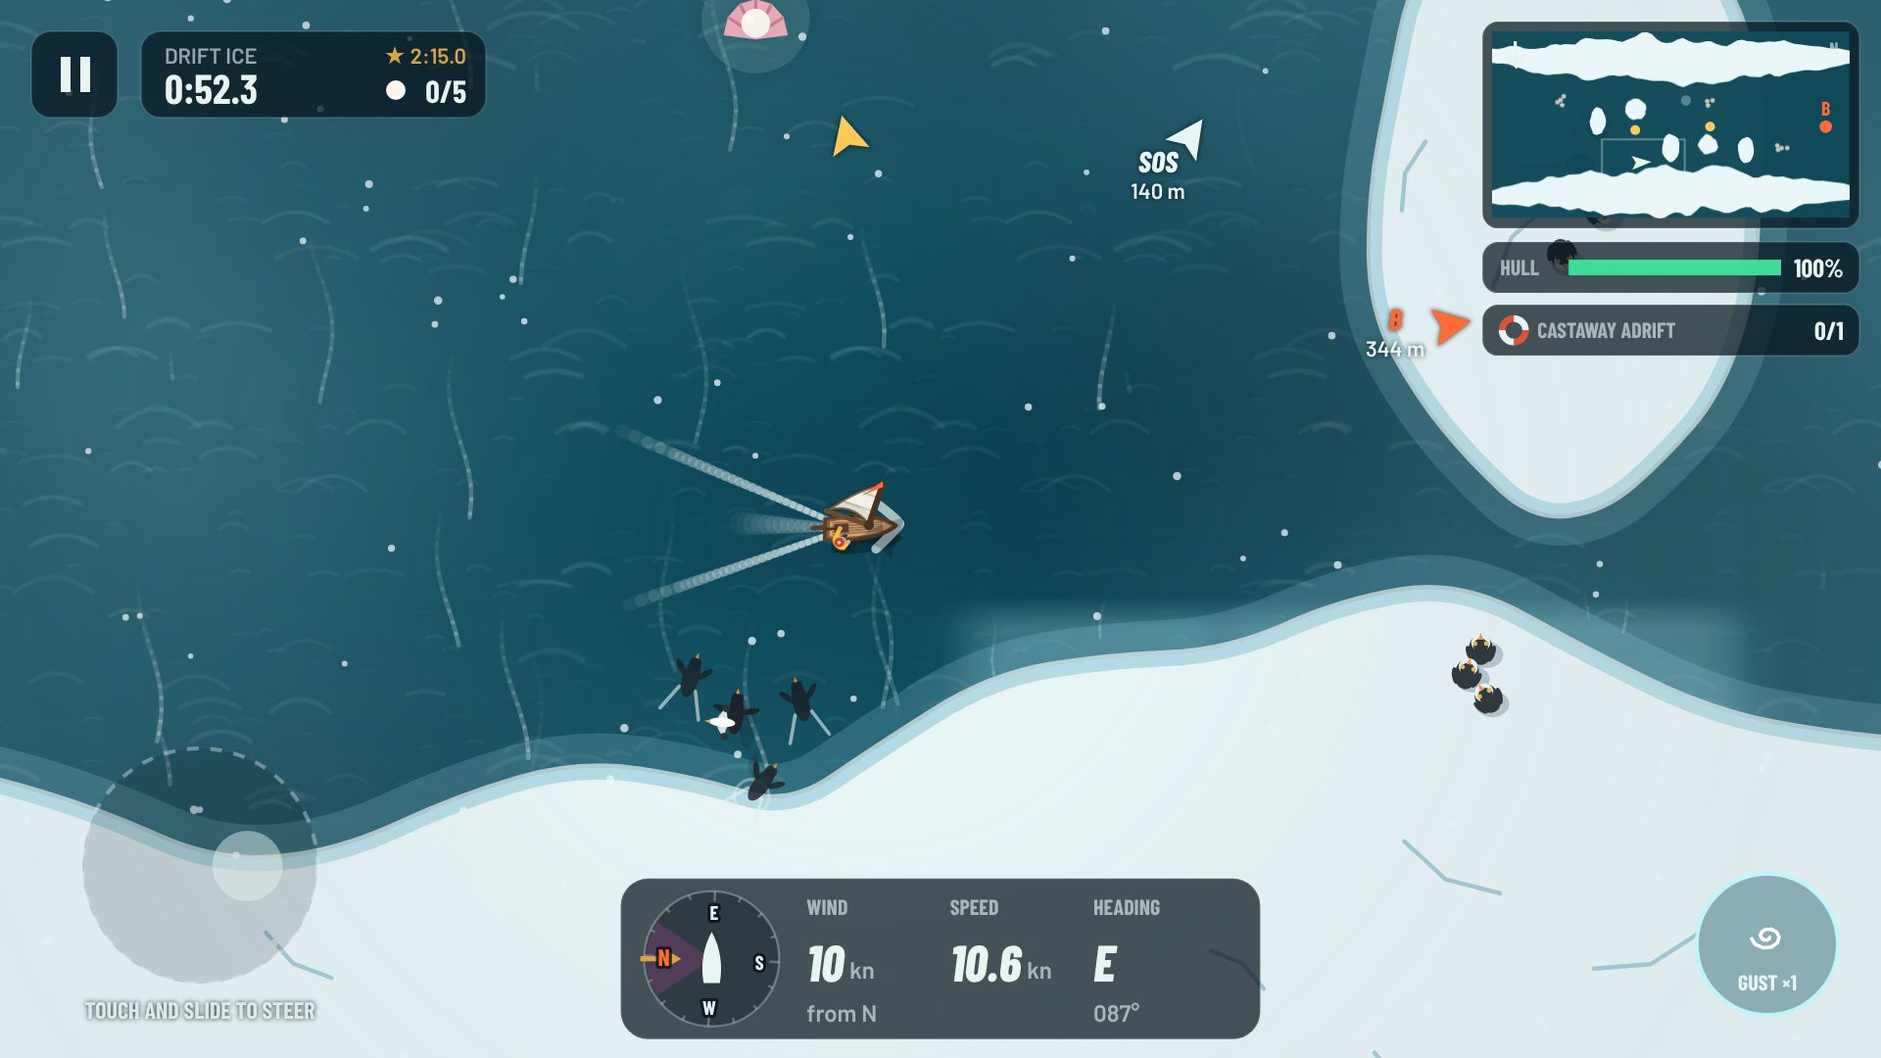
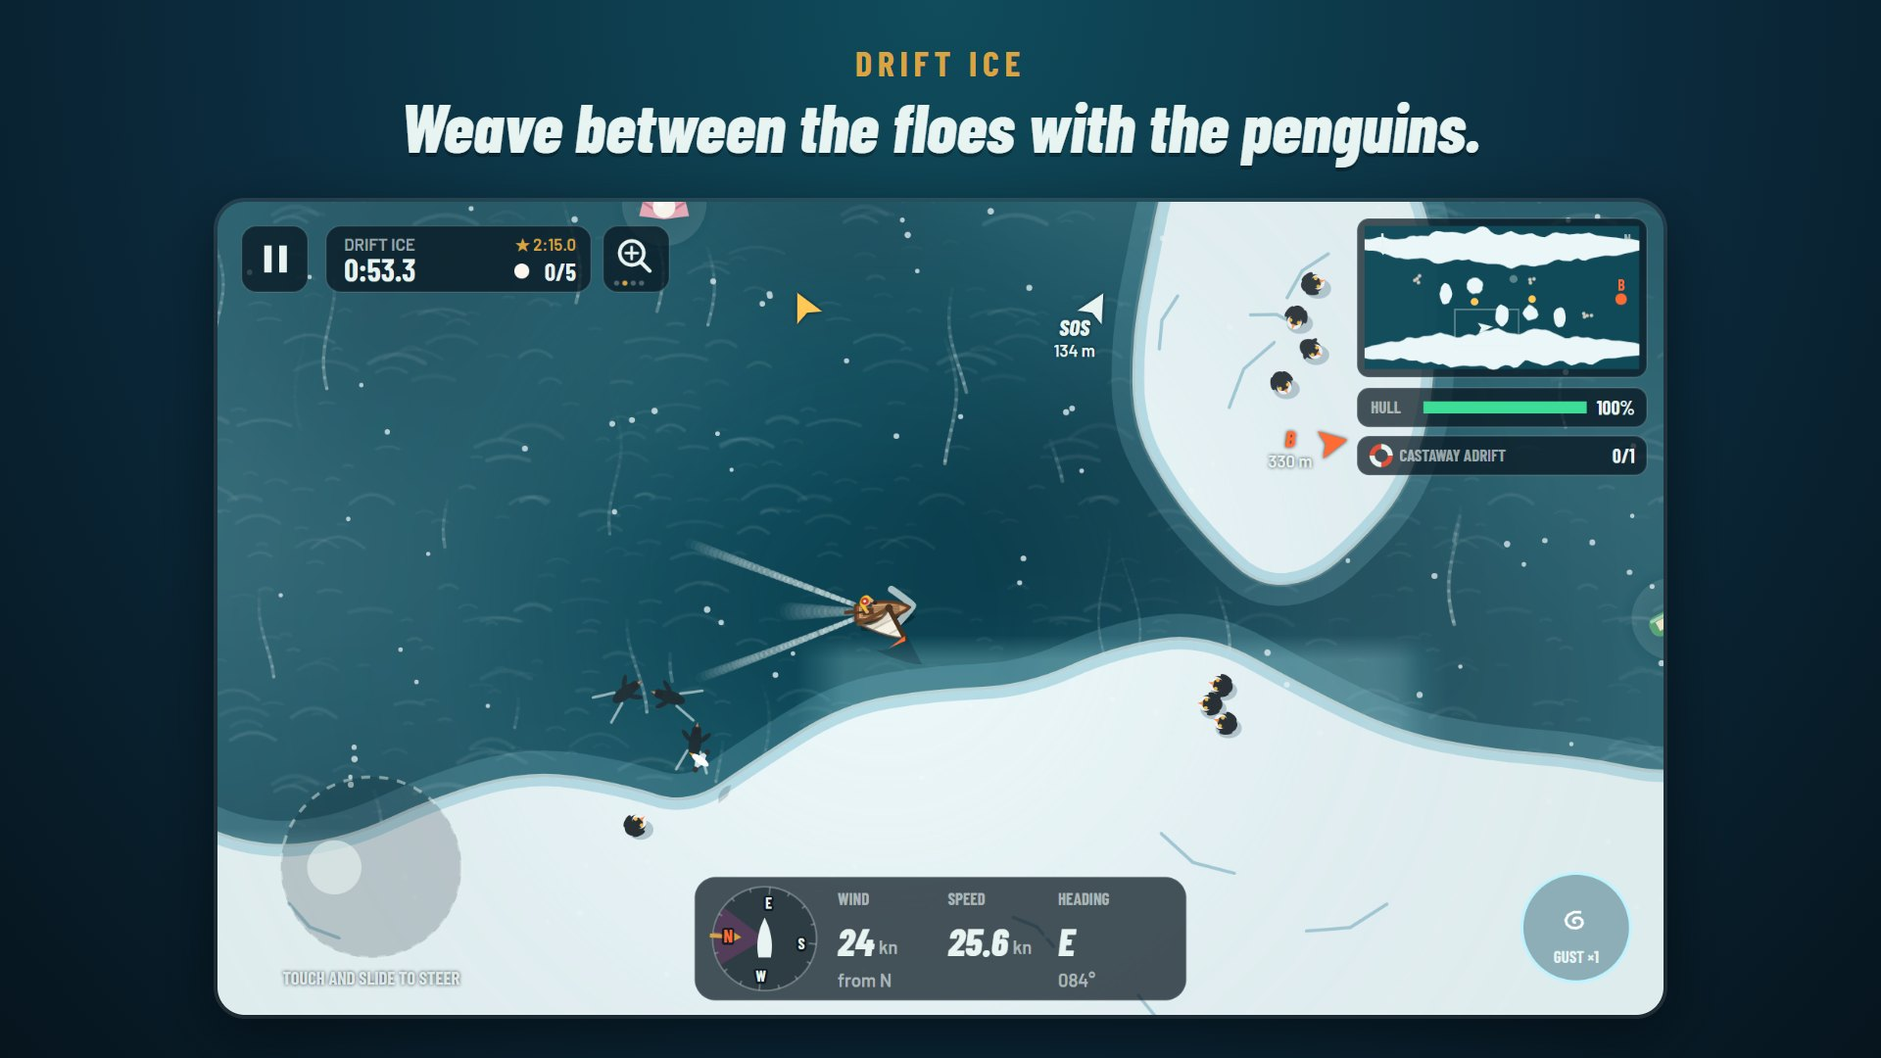
v0.44.0: rate, feedback and an exit question, from the closed test's feedback
- Settings opens with a Share and feedback group: Tell a friend, Rate No
  Paddle (the Play Store page) and Send feedback (an email to the developer
  with the version, Android version and phone model under it).
- Back on the title asks "Leave No Paddle?" before closing; Settings → Ask
  before closing turns it off.
- Store screenshots carry captions saying what each one shows.

diff --git a/web/src/ui/screens.js b/web/src/ui/screens.js
@@ -1639,11 +1639,19 @@ export function createUI(root, levels, handlers) {
         <div class="sheet narrow">
           <div class="sheet-head"><h2>${t('Settings')}</h2><button class="btn small" data-act="back">${t('Back')}</button></div>
           <div class="sheet-body">
+            <h3 class="setting-group">${t('Share and feedback')}</h3>
+            <div class="setting"><span class="label"><b>${t('Tell a friend')}</b><small>${t('Send them the link to No Paddle')}</small></span>
+              <button class="btn small" data-act="share">${icon('share', 16)} ${t('Share')}</button></div>
+            <div class="setting"><span class="label"><b>${t('Rate No Paddle')}</b><small>${t('Stars and a review on Google Play help other sailors find it')}</small></span>
+              <button class="btn small" data-act="rate">${icon('star', 16)} ${t('Rate')}</button></div>
+            <div class="setting"><span class="label"><b>${t('Send feedback')}</b><small>${t('Ideas, bugs, anything: an email to the developer')}</small></span>
+              <button class="btn small" data-act="feedback">${icon('bottle', 16)} ${t('Write')}</button></div>
             <h3 class="setting-group">${t('Sound and feel')}</h3>
             ${toggle('sound', t('Sound effects'), '')}
             ${toggle('music', t('Music'), t('A quiet sea shanty-ish tune'))}
             ${toggle('vibration', t('Vibration'), t('Bumps, capsizes and pickups'))}
             ${handlers.canRemind ? toggle('reminders', t('Reminders'), t('A nudge from the harbor at {times}', { times: reminderTimes() })) : ''}
+            ${handlers.canExit ? toggle('confirmExit', t('Ask before closing'), t('The back button on the title screen checks first')) : ''}
             <h3 class="setting-group">${t('Sailing')}</h3>
             ${toggle('autoTrim', t('Trim the sail by hand'), t('For experienced sailors: W / S or the right-hand slider'), true)}
             ${toggle('leftHanded', t('Left-handed controls'), t('Steer on the right, gust button on the left'))}
@@ -1660,9 +1668,6 @@ export function createUI(root, levels, handlers) {
             ${ads().privacyRequired() ? `<h3 class="setting-group">${t('Privacy')}</h3>
             <div class="setting"><span class="label"><b>${t('Ad privacy')}</b><small>${t('Change what you agreed to for ads')}</small></span>
               <button class="btn small" data-act="privacy">${t('Options')}</button></div>` : ''}
-            <h3 class="setting-group">${t('Friends')}</h3>
-            <div class="setting"><span class="label"><b>${t('Tell a friend')}</b><small>${t('Send them the link to No Paddle')}</small></span>
-              <button class="btn small" data-act="share">${icon('share', 16)} ${t('Share')}</button></div>
             ${games ? `<h3 class="setting-group">${t('Google Play Games')}</h3>
             ${games.signedIn ? `<div class="setting"><span class="label"><b>${t('Leaderboards')}</b><small>${games.name ? t('Signed in as {name}', { name: esc(games.name) }) : t('Signed in')}</small></span>
               <button class="btn small" data-act="boards">${t('Show')}</button></div>
@@ -1715,6 +1720,8 @@ export function createUI(root, levels, handlers) {
         }
       });
       click(node, '[data-act=share]', () => shareOut(shareText('game')));
+      click(node, '[data-act=rate]', () => handlers.onRate());
+      click(node, '[data-act=feedback]', () => handlers.onFeedback());
       click(node, '[data-act=backup]', () => ui.backup(save));
       click(node, '[data-act=howto]', () => ui.howto(save));
       click(node, '[data-act=film]', () => handlers.onFilm());

diff --git a/android/app/src/main/java/io/github/manpreetgugga/boatify/MainActivity.kt b/android/app/src/main/java/io/github/manpreetgugga/boatify/MainActivity.kt
@@ -23,6 +23,7 @@ import android.webkit.WebResourceRequest
 import android.webkit.WebResourceResponse
 import android.webkit.WebView
 import android.webkit.WebViewClient
+import android.widget.Toast
 import android.window.OnBackInvokedDispatcher
 import androidx.core.view.ViewCompat
 import androidx.core.view.WindowCompat
@@ -237,6 +238,38 @@ class MainActivity : Activity() {
         }
     }
 
+    // The game's page in the Play Store app, else on the web, to rate it.
+    private fun openStorePage() {
+        val market = Intent(Intent.ACTION_VIEW, Uri.parse("market://details?id=$packageName"))
+            .setPackage("com.android.vending")
+        try {
+            startActivity(market)
+        } catch (e: ActivityNotFoundException) {
+            try {
+                startActivity(Intent(Intent.ACTION_VIEW, Uri.parse("https://play.google.com/store/apps/details?id=$packageName")))
+            } catch (e: ActivityNotFoundException) {
+                // No store and no browser.
+            }
+        }
+    }
+
+    // An email to the developer in the phone's mail app, with the version of
+    // Android and the phone's model under the player's words. With no mail
+    // app, the address goes on the clipboard and `fallback` says where to write.
+    private fun writeFeedback(address: String, subject: String, body: String, fallback: String) {
+        val device = "Android ${Build.VERSION.RELEASE} (SDK ${Build.VERSION.SDK_INT}) · ${Build.MANUFACTURER} ${Build.MODEL}"
+        val mail = Intent(Intent.ACTION_SENDTO, Uri.parse("mailto:"))
+            .putExtra(Intent.EXTRA_EMAIL, arrayOf(address))
+            .putExtra(Intent.EXTRA_SUBJECT, subject)
+            .putExtra(Intent.EXTRA_TEXT, "$body\n$device")
+        try {
+            startActivity(mail)
+        } catch (e: ActivityNotFoundException) {
+            clipboard?.setPrimaryClip(ClipData.newPlainText("No Paddle feedback", address))
+            Toast.makeText(this, fallback, Toast.LENGTH_LONG).show()
+        }
+    }
+
     // Play's update screen closed: updated, or turned down.
     override fun onActivityResult(requestCode: Int, resultCode: Int, data: Intent?) {
         super.onActivityResult(requestCode, resultCode, data)
@@ -315,6 +348,16 @@ class MainActivity : Activity() {
         @JavascriptInterface
         fun askReview() {
             runOnUiThread { askForReview() }
+        }
+
+        @JavascriptInterface
+        fun openStore() {
+            runOnUiThread { openStorePage() }
+        }
+
+        @JavascriptInterface
+        fun sendFeedback(address: String, subject: String, body: String, fallback: String) {
+            runOnUiThread { writeFeedback(address.take(200), subject.take(200), body.take(2000), fallback.take(300)) }
         }
 
         // Backup codes go out through the clipboard and come back the same way.

diff --git a/web/src/main.js b/web/src/main.js
@@ -32,8 +32,8 @@ import { createUI, TEXT_SIZES } from './ui/screens.js';
 import { awardMedals } from './data/medals.js';
 import { boatLook, fittedGear } from './data/locker.js';
 import { loadSave, writeSave, recordResult, recordSeaRun, recordRace, resetProgress, restoreSave, loadGhost, storeGhost, markDaily, currentStreak, loadDailyCourse, storeDailyCourse, isDailyUnlocked, selectedBoat, unlockedBoats, nextZoom, nearestZoom, zoomName } from './platform/save.js';
-import { installNativeHooks, vibrate, exitApp, isAndroidApp, canRemind, setReminders, remindersAllowed, askReminders, share, canReview, askReview, copyText, canPaste, pasteText } from './platform/native.js';
-import { reviewDue, markReview } from './platform/social.js';
+import { installNativeHooks, vibrate, exitApp, isAndroidApp, canRemind, setReminders, remindersAllowed, askReminders, share, canReview, askReview, copyText, canPaste, pasteText, openStore, sendFeedback } from './platform/native.js';
+import { reviewDue, markReview, PLAY_LINK, FEEDBACK_EMAIL, feedbackMail } from './platform/social.js';
 import { hasGames, gamesState, gamesEvent, onGamesChange, signIn as gamesSignIn, showLeaderboards, submitScore, cloudSave, cloudLoad, gameScores, newScores, cloudChoice, loadCloudMemo, storeCloudMemo, cloudDue } from './platform/games.js';
 import { backupCode, readBackup, summarize } from './platform/backup.js';
 import { REMINDER_TIMES, remindersFor, reminderTimes } from './data/reminders.js';
@@ -269,6 +269,12 @@ const ui = createUI(root, CAMPAIGN, {
     track('share', { what: mode === 'results' ? 'results' : 'game' });
     return share(text);
   },
+  onRate: () => openStore(PLAY_LINK),
+  onFeedback: () => {
+    const mail = feedbackMail(globalThis.BOATIFY_VERSION, currentLang());
+    sendFeedback(FEEDBACK_EMAIL, mail.subject, mail.body, t('No email app found. Write to {email}', { email: FEEDBACK_EMAIL }));
+  },
+  canExit: isAndroidApp,
   onReset: () => resetProgress(save),
   // Backup codes: copied out, pasted in, and a restored save starts the game afresh.
   onCopy: (text) => copyText(text),
@@ -1213,7 +1219,17 @@ function onBack() {
     ui.voyages(save);
     return true;
   }
-  return ui.back();
+  if (ui.back()) return true;
+  // On the title, Back closes the app: ask first, unless the player said not to.
+  if (!isAndroidApp || !save.settings.confirmExit) return false;
+  ui.confirm({
+    title: t('Leave No Paddle?'),
+    text: t('Your progress is saved. You can turn this question off in Settings.'),
+    ok: t('Leave'),
+    no: t('Stay'),
+    onOk: () => exitApp(),
+  });
+  return true;
 }
 
 installNativeHooks({

diff --git a/web/src/i18n/hi.js b/web/src/i18n/hi.js
@@ -1774,7 +1774,6 @@ export const HI = {
   "Ad privacy": "विज्ञापन निजता",
   "Change what you agreed to for ads": "विज्ञापनों के लिए दी गई सहमति बदलो",
   "Options": "विकल्प",
-  "Friends": "दोस्त",
   "Tell a friend": "दोस्त को बताओ",
   "Send them the link to No Paddle": "उन्हें No Paddle का लिंक भेजो",
   "Progress": "प्रगति",
@@ -1914,4 +1913,18 @@ export const HI = {
   "Restart to update": "अपडेट के लिए फिर से खोलें",
   "This version is out of date": "यह संस्करण पुराना हो गया है",
   "Update": "अपडेट करें",
+  "Share and feedback": "शेयर और राय",
+  "Rate No Paddle": "No Paddle को रेटिंग दो",
+  "Stars and a review on Google Play help other sailors find it": "Google Play पर स्टार और रिव्यू से दूसरे नाविक इसे ढूँढ पाते हैं",
+  "Rate": "रेटिंग दो",
+  "Send feedback": "राय भेजो",
+  "Ideas, bugs, anything: an email to the developer": "सुझाव, गड़बड़ियाँ, कुछ भी: डेवलपर को एक ईमेल",
+  "Write": "लिखो",
+  "No email app found. Write to {email}": "कोई ईमेल ऐप नहीं मिला। {email} पर लिखो",
+  "Ask before closing": "बंद करने से पहले पूछो",
+  "The back button on the title screen checks first": "टाइटल स्क्रीन पर बैक बटन पहले पूछता है",
+  "Leave No Paddle?": "No Paddle बंद करना है?",
+  "Your progress is saved. You can turn this question off in Settings.": "तुम्हारी प्रगति सेव है। यह सवाल सेटिंग्स में बंद कर सकते हो।",
+  "Leave": "बंद करो",
+  "Stay": "रुको",
 };

diff --git a/web/src/i18n/es.js b/web/src/i18n/es.js
@@ -1774,7 +1774,6 @@ export const ES = {
   "Ad privacy": "Privacidad de anuncios",
   "Change what you agreed to for ads": "Cambia lo que aceptaste para los anuncios",
   "Options": "Opciones",
-  "Friends": "Amigos",
   "Tell a friend": "Díselo a un amigo",
   "Send them the link to No Paddle": "Envíale el enlace de No Paddle",
   "Progress": "Progreso",
@@ -1914,4 +1913,18 @@ export const ES = {
   "Restart to update": "Reiniciar para actualizar",
   "This version is out of date": "Esta versión está desactualizada",
   "Update": "Actualizar",
+  "Share and feedback": "Compartir y opinar",
+  "Rate No Paddle": "Valora No Paddle",
+  "Stars and a review on Google Play help other sailors find it": "Las estrellas y una reseña en Google Play ayudan a otros navegantes a encontrarlo",
+  "Rate": "Valorar",
+  "Send feedback": "Enviar comentarios",
+  "Ideas, bugs, anything: an email to the developer": "Ideas, fallos, lo que sea: un correo al desarrollador",
+  "Write": "Escribir",
+  "No email app found. Write to {email}": "No hay ninguna app de correo. Escribe a {email}",
+  "Ask before closing": "Preguntar antes de cerrar",
+  "The back button on the title screen checks first": "El botón Atrás de la pantalla de inicio pregunta primero",
+  "Leave No Paddle?": "¿Salir de No Paddle?",
+  "Your progress is saved. You can turn this question off in Settings.": "Tu progreso está guardado. Puedes desactivar esta pregunta en Ajustes.",
+  "Leave": "Salir",
+  "Stay": "Quedarme",
 };

diff --git a/web/src/i18n/pt.js b/web/src/i18n/pt.js
@@ -1774,7 +1774,6 @@ export const PT = {
   "Ad privacy": "Privacidade de anúncios",
   "Change what you agreed to for ads": "Mude o que você aceitou para os anúncios",
   "Options": "Opções",
-  "Friends": "Amigos",
   "Tell a friend": "Conte para um amigo",
   "Send them the link to No Paddle": "Mande o link do No Paddle",
   "Progress": "Progresso",
@@ -1914,4 +1913,18 @@ export const PT = {
   "Restart to update": "Reiniciar para atualizar",
   "This version is out of date": "Esta versão está desatualizada",
   "Update": "Atualizar",
+  "Share and feedback": "Compartilhar e opinar",
+  "Rate No Paddle": "Avalie o No Paddle",
+  "Stars and a review on Google Play help other sailors find it": "Estrelas e uma avaliação no Google Play ajudam outros velejadores a encontrá-lo",
+  "Rate": "Avaliar",
+  "Send feedback": "Enviar comentários",
+  "Ideas, bugs, anything: an email to the developer": "Ideias, bugs, qualquer coisa: um e-mail para o desenvolvedor",
+  "Write": "Escrever",
+  "No email app found. Write to {email}": "Nenhum app de e-mail encontrado. Escreva para {email}",
+  "Ask before closing": "Perguntar antes de fechar",
+  "The back button on the title screen checks first": "O botão Voltar da tela inicial pergunta antes",
+  "Leave No Paddle?": "Sair do No Paddle?",
+  "Your progress is saved. You can turn this question off in Settings.": "Seu progresso está salvo. Você pode desligar esta pergunta em Ajustes.",
+  "Leave": "Sair",
+  "Stay": "Ficar",
 };

diff --git a/web/src/i18n/id.js b/web/src/i18n/id.js
@@ -1774,7 +1774,6 @@ export const ID = {
   "Ad privacy": "Privasi iklan",
   "Change what you agreed to for ads": "Ubah persetujuanmu untuk iklan",
   "Options": "Opsi",
-  "Friends": "Teman",
   "Tell a friend": "Ajak teman",
   "Send them the link to No Paddle": "Kirimi mereka tautan No Paddle",
   "Progress": "Kemajuan",
@@ -1914,4 +1913,18 @@ export const ID = {
   "Restart to update": "Mulai ulang untuk memperbarui",
   "This version is out of date": "Versi ini sudah usang",
   "Update": "Perbarui",
+  "Share and feedback": "Bagikan dan beri masukan",
+  "Rate No Paddle": "Beri nilai No Paddle",
+  "Stars and a review on Google Play help other sailors find it": "Bintang dan ulasan di Google Play membantu pelaut lain menemukannya",
+  "Rate": "Beri nilai",
+  "Send feedback": "Kirim masukan",
+  "Ideas, bugs, anything: an email to the developer": "Ide, bug, apa saja: email ke pengembang",
+  "Write": "Tulis",
+  "No email app found. Write to {email}": "Tidak ada aplikasi email. Tulis ke {email}",
+  "Ask before closing": "Tanya sebelum menutup",
+  "The back button on the title screen checks first": "Tombol kembali di layar judul bertanya dulu",
+  "Leave No Paddle?": "Keluar dari No Paddle?",
+  "Your progress is saved. You can turn this question off in Settings.": "Progresmu tersimpan. Pertanyaan ini bisa dimatikan di Pengaturan.",
+  "Leave": "Keluar",
+  "Stay": "Tetap main",
 };

diff --git a/web/src/platform/native.js b/web/src/platform/native.js
@@ -129,6 +129,35 @@ export function askReview() {
   }
 }
 
+// The game's page on Google Play, to rate it: the Play Store app on a phone,
+// the web page in a browser.
+export function openStore(link) {
+  try {
+    if (bridge && bridge.openStore) {
+      bridge.openStore();
+      return;
+    }
+    window.open(link, '_blank', 'noopener');
+  } catch {
+    // Nowhere to open it.
+  }
+}
+
+// An email to the developer, in the phone's mail app. The Android shell adds
+// the phone's Android version and model under the body, and shows `fallback`
+// when there's no mail app.
+export function sendFeedback(address, subject, body, fallback) {
+  try {
+    if (bridge && bridge.sendFeedback) {
+      bridge.sendFeedback(address, subject, body, fallback);
+      return;
+    }
+    window.location.href = `mailto:${address}?subject=${encodeURIComponent(subject)}&body=${encodeURIComponent(body)}`;
+  } catch {
+    // No mail, then.
+  }
+}
+
 // handlers: { back(): boolean, pause(), resume(), insets({top,right,bottom,left}), reminders(allowed), games(event), analytics(), update(info) }
 export function installNativeHooks(handlers) {
   window.BoatifyNative = {

diff --git a/web/src/platform/social.js b/web/src/platform/social.js
@@ -7,7 +7,16 @@ import { t, N_, ordinal } from '../i18n/index.js';
 
 export const PLAY_LINK = 'https://play.google.com/store/apps/details?id=io.github.manpreetgugga.boatify';
 
-const PITCH = N_('No Paddle, a sailing game where only the wind can carry you home.');
+// Settings → Send feedback writes here.
+export const FEEDBACK_EMAIL = 'manpreetsingh4501@gmail.com';
+
+// The feedback email's subject and the line under the player's words: the
+// version and language, so a bug report says where it happened.
+export function feedbackMail(version, lang) {
+  return { subject: 'No Paddle feedback', body: `\n\n\n---\nNo Paddle v${version || 'dev'} · ${lang}` };
+}
+
+const PITCH =N_('No Paddle, a sailing game where only the wind can carry you home.');
 
 // The text for a Share button. kind: 'game' (Settings), 'voyage', 'sea' or 'race'.
 export function shareText(kind, info = {}) {

diff --git a/web/src/platform/save.js b/web/src/platform/save.js
@@ -65,6 +65,7 @@ export const DEFAULT_SETTINGS = {
   reminders: true, // reminders on the phone at 9 am, 6 pm and 9 pm (Android)
   lang: 'auto', // 'auto' follows the phone, else one of i18n's LANGS
   analytics: null, // anonymous analytics and crash reports; null: what the law allows here
+  confirmExit: true, // Back on the title asks before the app closes (Android)
 };
 
 function blank() {

diff --git a/PRIVACY.md b/PRIVACY.md
@@ -1,6 +1,6 @@
 # Privacy policy
 
-_No Paddle (Android app `io.github.manpreetgugga.boatify`). Last updated 31 October 2026._
+_No Paddle (Android app `io.github.manpreetgugga.boatify`). Last updated 11 November 2026._
 
 No Paddle has no accounts of its own, and the developer never collects your name, email address, contacts or anything else that says who you are. The game itself is inside the app and works offline. It shows ads from **Google AdMob**, it can send **anonymous analytics and crash reports** through **Google Firebase** (you can turn this off), and if you choose to you can sign in to **Google Play Games**. These use the internet and are run by Google, as described below.
 
@@ -34,6 +34,10 @@ Google keeps the analytics for 2 months and crash reports for 90 days, on the de
 ## Updates
 
 The Google Play version asks **Google Play** whether a newer version is out, so it can offer to download it (Play's in-app updates). With Firebase in the build it also fetches one setting from **Firebase Remote Config**, the oldest version that may still be played, using the same random installation ID as above. Nothing about you or your game is sent for this, and it is fetched whether or not analytics is on, because it only decides whether to ask you to update.
+
+## Feedback emails
+
+Settings → Send feedback opens your own mail app with a message to the developer. Nothing is sent unless you send it. Under your words it adds the game's version and language, your Android version and your phone's model, so a bug report says where it happened; you can delete them before sending. The developer uses these emails only to answer you and improve the game.
 
 ## Google Play Games (optional)
 

diff --git a/CHANGELOG.md b/CHANGELOG.md
@@ -1,5 +1,13 @@
 # Changelog
 
+## [0.44.0] - 2026-11-11
+
+Changes from the closed test's feedback.
+
+- **Rate, share and write to us from Settings.** A new Share and feedback group at the top of Settings: Tell a friend (the share sheet, as before), Rate No Paddle (opens the game's page in the Play Store) and Send feedback (an email to the developer in the phone's mail app, with the game's version, the Android version and the phone's model under it). Google Play's own rating box still only appears after a three-star finish, at most three times and a month apart.
+- **Back on the title asks first.** On Android, the back button on the title screen asks "Leave No Paddle?" (Leave or Stay) instead of closing at once. Back again, or Stay, keeps you in. Settings → Ask before closing turns the question off.
+- **Store screenshots with captions.** Each screenshot sits in a frame with a line saying what it shows: the dolphins that guide you, the pirate brig, the kraken, the storm, the ice and the 110 voyages.
+
 ## [0.43.1] - 2026-11-05
 
 Analytics and crash reports are switched on in the Google Play version.
